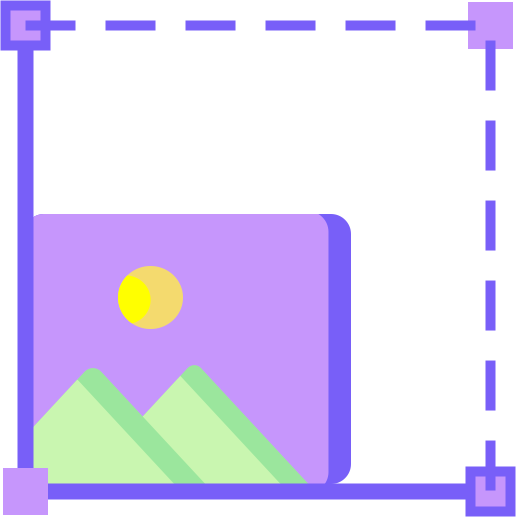
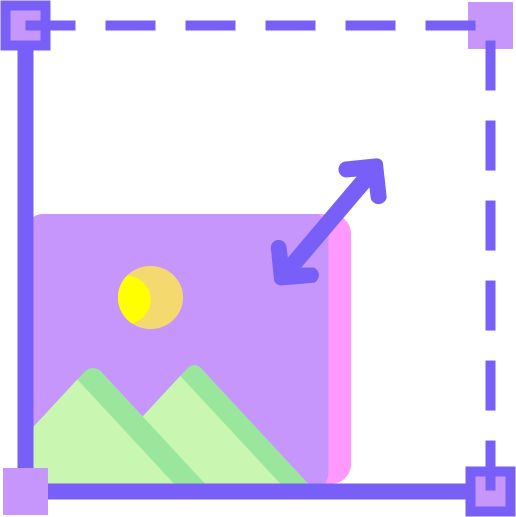
Update Code

Changed region(s): [[0.5271, 0.3095, 0.7752, 0.9594]]

diff --git a/image resizer/css/styles.css b/image resizer/css/styles.css
@@ -137,6 +137,8 @@ body {
     width: 100%;
     max-width: 700px;
     background: var(--bg-card);
+    
+    box-shadow: 15px 0px 266px #a855f7;
     backdrop-filter: blur(20px) saturate(180%);
     border: 1px solid rgba(255, 255, 255, 0.2);
     border-radius: 2rem;
@@ -182,6 +184,7 @@ body {
     box-shadow: var(--shadow-sm);
 }
 
+
 :root.dark-mode .header h1 {
     background: linear-gradient(135deg, #8b5cf6, #c4b5fd);
     -webkit-background-clip: text;
@@ -203,6 +206,13 @@ body {
 }
 :root.dark-mode .cta-text{
     color: black;
+}
+
+
+:root.dark-mode .site-footer a {
+    color: white;
+    font-size: 20px;
+    font-weight: bold;
 }
 /* Upload Area */
 .upload-area {
@@ -265,7 +275,7 @@ body {
 
 :root.dark-mode .drag-text,
 :root.dark-mode .seo-description {
-    color: black;
+    color: gray;
 }
 
 #imageInput {
@@ -353,7 +363,33 @@ button {
     position: relative;
     overflow: hidden;
 }
-
+.site-footer {
+   
+    width: 100%;
+     /* Dark glass style from your theme */
+    color: black; /* Soft light/gray text */
+    text-align: center;
+    /* padding: 12px 0; */
+    font-size: 14px;
+    /* border-top: 1px solid var(--border-color); */
+    backdrop-filter: blur(10px);
+    -webkit-backdrop-filter: blur(10px);
+  }
+  
+  /* Footer link */
+  .site-footer a {
+    color: var(--primary-light); /* Matches theme accents */
+    text-decoration: none;
+    font-weight: 500;
+  }
+  
+  .site-footer a:hover {
+    text-decoration: underline;
+  }
+  :root.dark-mode .site-footer {
+    color: white;
+}
+  
 button::before {
     content: '';
     position: absolute;
@@ -469,7 +505,7 @@ button:disabled {
     line-height: 1.6;
     margin-top: 2rem;
     padding: 1.5rem;
-    background: #ffffff; /* Solid white */
+    /* background: #ffffff; */
     border-radius: 1rem;
     border: 1px solid rgba(255, 255, 255, 0.2);
 }
@@ -498,12 +534,15 @@ footer a:hover {
 
 
 :root.dark-mode footer a {
-    color: #8b5cf6;
+    color: white;
 }
 
 :root.dark-mode footer a:hover {
     color: #a78bfa;
 }
+ :root.dark-mode .site-footer a{
+    color: var(--primary-light);
+ }
 
 /* Progress Indicator */
 .progress-container {

diff --git a/image resizer/privacy.html b/image resizer/privacy.html
@@ -39,7 +39,8 @@
 
         body {
             font-family: var(--font-sans);
-            background: radial-gradient(ellipse at center, #a855f7 0%, #c084fc 30%, #e0e7ff 60%, #f1f5f9 90%, #ffffff 100%);
+            
+            /* background: radial-gradient(ellipse at center, #a855f7 0%, #c084fc 30%, #e0e7ff 60%, #f1f5f9 90%, #ffffff 100%); */
             min-height: 100vh;
             display: flex;
             flex-direction: column;
@@ -57,9 +58,14 @@
         }
 
         html.dark-mode body {
-            background: radial-gradient(ellipse at center, #4c1d95 0%, #6b21a8 30%, #1e293b 60%, #0f172a 90%, #020617 100%);
+            background:#0f172a 90%;
             color: var(--text-light);
         }
+        :root.dark-mode .site-footer a {
+            color: var(--primary-light);
+    font-size: 20px;
+    font-weight: bold;
+}
 
         /* Main Container */
         .container {
@@ -347,7 +353,7 @@
     </style>
 </head>
 <body>
-    <div class="container">
+    <div class="container" style="box-shadow: 15px 0px 266px #a855f7;">
         <div class="header">
             <span class="hero-icon">🔒</span>
             <h1>Privacy Policy</h1>
@@ -447,6 +453,12 @@
         <a href="about.html">About Us</a> |
         <a href="terms.html">Terms of Service</a>
     </footer>
+
+    <div class="site-footer" style="margin-top: 20px;">
+        <p>
+            © 2025 Image Resizer | Contact: <a href="mailto:vintagegenatics@gmail.com"> vintagegenatics@gmail.com</a>
+        </p>
+      </div>
 
     <script src="js/theme.js"></script>
 </body>

diff --git a/image resizer/terms.html b/image resizer/terms.html
@@ -39,7 +39,7 @@
 
         body {
             font-family: var(--font-sans);
-            background: radial-gradient(ellipse at center, #a855f7 0%, #c084fc 30%, #e0e7ff 60%, #f1f5f9 90%, #ffffff 100%);
+            /* background: radial-gradient(ellipse at center, #a855f7 0%, #c084fc 30%, #e0e7ff 60%, #f1f5f9 90%, #ffffff 100%); */
             min-height: 100vh;
             display: flex;
             flex-direction: column;
@@ -57,9 +57,14 @@
         }
 
         html.dark-mode body {
-            background: radial-gradient(ellipse at center, #4c1d95 0%, #6b21a8 30%, #1e293b 60%, #0f172a 90%, #020617 100%);
+            background: #0f172a 90%;
             color: var(--text-light);
         }
+        :root.dark-mode .site-footer a {
+    color: var(--primary-light);
+    font-size: 20px;
+    font-weight: bold;
+}
 
         /* Main Container */
         .container {
@@ -371,7 +376,7 @@
     </style>
 </head>
 <body>
-    <div class="container">
+    <div class="container" style="box-shadow: 15px 0px 266px #a855f7;">
         <div class="header">
             <span class="hero-icon">📜</span>
             <h1>Terms of Service</h1>
@@ -504,6 +509,13 @@
         <a href="about.html">About Us</a> |
         <a href="privacy.html">Privacy Policy</a>
     </footer>
+
+    <div class="site-footer" style="margin-top: 20px;">
+        <p>
+            © 2025 Image Resizer | Contact: <a href="mailto:vintagegenatics@gmail.com"> vintagegenatics@gmail.com</a>
+        </p>
+      </div>
+
 
     <script src="js/theme.js"></script>
 </body>

diff --git a/image resizer/css/theme.css b/image resizer/css/theme.css
@@ -41,7 +41,9 @@
 /* Body styles for all pages - LIGHT MODE with purple gradient */
 body {
     font-family: var(--font-sans);
-    background: radial-gradient(ellipse at center, #a855f7 0%, #c084fc 30%, #e0e7ff 60%, #f1f5f9 90%, #ffffff 100%);
+    background: white;
+    
+    
     min-height: 100vh;
     display: flex;
     flex-direction: column;
@@ -55,7 +57,7 @@ body {
 }
 
 :root.dark-mode body {
-    background: radial-gradient(ellipse at center, #4c1d95 0%, #6b21a8 30%, #1e293b 60%, #0f172a 90%, #020617 100%);
+    background: #1e293b 60%;
     color: var(--text-light);
 }
 
@@ -121,6 +123,7 @@ body {
     max-width: 850px;
     width: 100%;
     background: #ffffff; /* Solid white */
+    box-shadow: 15px 0px 266px #a855f7;
     border: 1px solid rgba(0, 0, 0, 0.1);
     border-radius: 1.5rem;
     padding: 3rem 2.5rem;

diff --git a/image resizer/index.html b/image resizer/index.html
@@ -109,7 +109,7 @@
         <div class="progress-subtext">Please wait while we resize your image</div>
     </div>
 
-    <div class="container">
+    <div class="container" style="box-shadow: 15px 0px 266px #a855f7;">
         <div class="header">
             <div class="logo-title">
                 <img src="resize.png" alt="Image Resizer logo" class="logo" />
@@ -171,6 +171,14 @@
             <a href="terms.html">Terms of Service</a>
         </footer>
     </div>
+
+    <div class="site-footer">
+        <p>
+            © 2025 Image Resizer | Contact: <a href="mailto:vintagegenatics@gmail.com"> vintagegenatics@gmail.com</a>
+        </p>
+      </div>
+      
+      
     
 
     <script src="js/error-handler.js"></script>

diff --git a/image resizer/about.html b/image resizer/about.html
@@ -12,7 +12,7 @@
 </head>
 <body>
 
-    <div class="container">
+    <div class="container" style="box-shadow: 15px 0px 266px #a855f7;">
         <div class="header">
             <span class="hero-icon">🎨</span>
             <h1>About Image Resizer Pro</h1>
@@ -83,6 +83,12 @@
         <a href="privacy.html">Privacy Policy</a> |
         <a href="terms.html">Terms of Service</a>
     </footer>
+
+    <div class="site-footer" style="margin-top: 20px;">
+        <p>
+            © 2025 Image Resizer | Contact: <a href="mailto:vintagegenatics@gmail.com"> vintagegenatics@gmail.com</a>
+        </p>
+      </div>
 
     <script src="js/theme.js"></script>
 </body>

diff --git a/image resizer/css/responsive.css b/image resizer/css/responsive.css
@@ -437,7 +437,7 @@
 /* Dark Mode Optimizations */
 @media (prefers-color-scheme: dark) {
     :root:not(.dark-mode) {
-        --bg-main: radial-gradient(ellipse at center, #4c1d95 0%, #6b21a8 30%, #1e293b 60%, #0f172a 90%, #020617 100%);
+        /* --bg-main: radial-gradient(ellipse at center, #4c1d95 0%, #6b21a8 30%, #1e293b 60%, #0f172a 90%, #020617 100%); */
         --bg-card: rgba(31, 41, 55, 0.9);
         --bg-glass: rgba(31, 41, 55, 0.7);
         --text-primary: #ffffff;
